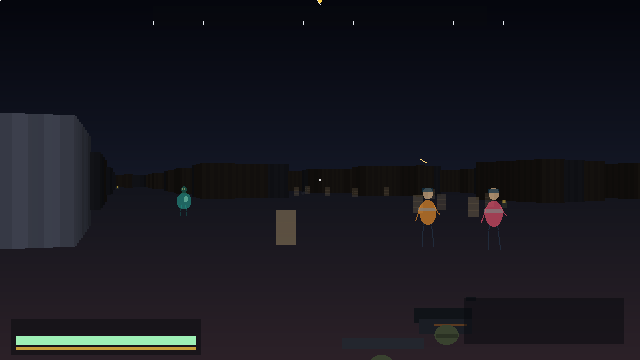
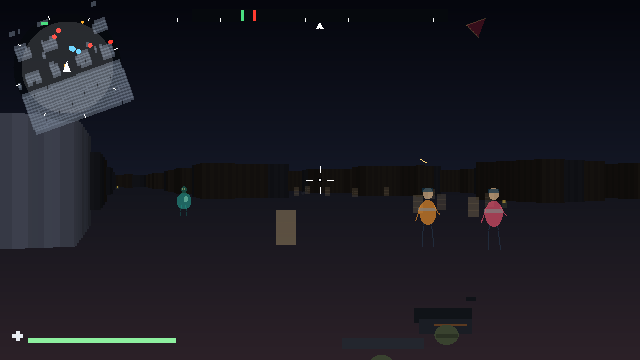
feat(hud): rebuild the FP HUD in the CODM / Warzone grammar
- CIRCULAR MINIMAP top-left (CODM signature): rotating forward-up map with wall
  blocks, red enemy dots (boss bigger), blue teammate dots, amber loot, green
  extract diamond clamped to the rim, white own-arrow + view cone, compass ring
  with rotating N/E/S/W letters; DOM square minimap + squad strip hidden in FP
- thin Warzone compass strip top-centre: faded-edge gradient tape, cardinals,
  red threat pips + green extract pip, centre needle
- crosshair + hitmarkers now drawn with a hard black outline (CoD readability)
- health: med-cross icon + slim outlined bar + armour sliver + hp number,
  bottom-left; low-hp red pulse kept
- ammo bottom-right: huge condensed mag number, dim /reserve, letter-spaced
  weapon name, thin amber RELOAD progress bar (from weapon reload time),
  grenade ring + count; KILLS top-right
- boss bar segmented into 24 cells under the compass
- condensed military font stack (Arial Narrow / Roboto Condensed) with hard
  drop shadows on every label; DOM ammo/gear cluster stays hidden in FP

diff --git a/client/render.js b/client/render.js
@@ -7,6 +7,7 @@
 (function (root) {
   'use strict';
   const D = root.ABAW_DATA, LV = root.ABAW_LEVEL, AU = root.ABAW_AUDIO;
+  const HUDFONT = '"Arial Narrow", "Roboto Condensed", "Barlow Condensed", "Helvetica Neue", system-ui, sans-serif';
   const T = D.TILE;
   const clamp = (v, a, b) => v < a ? a : v > b ? b : v;
   const lerp = (a, b, t) => a + (b - a) * t;
@@ -1142,87 +1143,159 @@
 
     /* ---------------- CoD-style canvas HUD ---------------- */
     static degFromYaw(yaw) { const d = (yaw * 180 / Math.PI + 90) % 360; return d < 0 ? d + 360 : d; }
+    /* ---------------- CODM / Warzone-style canvas HUD ---------------- */
+    drawMinimapFP(ctx, ents, u) {
+      const own = this.ownPos, L = this.level;
+      if (!own || !L) return;
+      const TS = L.tile || 32;
+      const R = 54 * u, cx = R + 13 * u, cy = R + 13 * u;
+      const scale = (R * 0.94) / (17 * TS);
+      const th = -this.yaw - Math.PI / 2;                 // forward = up
+      const c = Math.cos(th), s = Math.sin(th);
+      ctx.save();
+      ctx.beginPath(); ctx.arc(cx, cy, R, 0, 6.2832);
+      ctx.fillStyle = 'rgba(6,9,13,.74)'; ctx.fill();
+      ctx.clip();
+      ctx.translate(cx, cy); ctx.rotate(th);
+      const h = TS * scale / 2;
+      const ox = own.x, oy = own.y, reach = 17 * TS;
+      ctx.fillStyle = 'rgba(120,132,150,.5)';
+      const t0x = Math.floor((ox - reach) / TS), t1x = Math.floor((ox + reach) / TS);
+      const t0y = Math.floor((oy - reach) / TS), t1y = Math.floor((oy + reach) / TS);
+      for (let ty = t0y; ty <= t1y; ty++) for (let tx = t0x; tx <= t1x; tx++) {
+        if (!LV.isSolid(L, tx * TS + TS / 2, ty * TS + TS / 2)) continue;
+        ctx.fillRect((tx * TS + TS / 2 - ox) * scale - h, (ty * TS + TS / 2 - oy) * scale - h, h * 2, h * 2);
+      }
+      const dot = (wx, wy, r, colr) => { ctx.fillStyle = colr; ctx.beginPath(); ctx.arc((wx - ox) * scale, (wy - oy) * scale, r, 0, 6.2832); ctx.fill(); };
+      for (const it of (ents.it || [])) if (Math.hypot(it.x - ox, it.y - oy) < reach) dot(it.x, it.y, 1.6 * u, '#ffb02e');
+      if (L.extract) {
+        const ex = (L.extract.x - ox) * scale, ey = (L.extract.y - oy) * scale;
+        const d = Math.hypot(ex, ey), k = d > R * 0.9 ? (R * 0.9) / d : 1;
+        ctx.fillStyle = '#4ade80';
+        ctx.save(); ctx.translate(ex * k, ey * k); ctx.rotate(Math.PI / 4); ctx.fillRect(-2.4 * u, -2.4 * u, 4.8 * u, 4.8 * u); ctx.restore();
+      }
+      for (const sv of (ents.surv || [])) if (sv.id !== this.youId && !sv.dd) dot(sv.x, sv.y, 2.6 * u, '#5ad1ff');
+      for (const e of (ents.en || [])) if (Math.hypot(e.x - ox, e.y - oy) < reach) dot(e.x, e.y, e.boss ? 3.6 * u : 2.4 * u, e.boss ? '#ff2d55' : '#ff3b30');
+      ctx.restore();
+      // ring + rotating compass letters
+      ctx.strokeStyle = 'rgba(255,255,255,.5)'; ctx.lineWidth = 1.5 * u;
+      ctx.beginPath(); ctx.arc(cx, cy, R, 0, 6.2832); ctx.stroke();
+      ctx.strokeStyle = 'rgba(255,255,255,.28)'; ctx.lineWidth = 1 * u;
+      for (let d = 0; d < 360; d += 45) {
+        const wa = (d - 90) * Math.PI / 180;              // world angle of compass deg d (N=-y)
+        const ra = wa + th;
+        ctx.beginPath();
+        ctx.moveTo(cx + Math.cos(ra) * (R - 3 * u), cy + Math.sin(ra) * (R - 3 * u));
+        ctx.lineTo(cx + Math.cos(ra) * R, cy + Math.sin(ra) * R);
+        ctx.stroke();
+      }
+      const CARD = { 0: 'N', 90: 'E', 180: 'S', 270: 'W' };
+      ctx.font = '700 ' + (8 * u) + 'px ' + HUDFONT;
+      ctx.textAlign = 'center'; ctx.textBaseline = 'middle';
+      for (const d of [0, 90, 180, 270]) {
+        const ra = (d - 90) * Math.PI / 180 + th;
+        ctx.fillStyle = d === 0 ? '#ffd24a' : 'rgba(255,255,255,.8)';
+        ctx.fillText(CARD[d], cx + Math.cos(ra) * (R + 6.5 * u), cy + Math.sin(ra) * (R + 6.5 * u));
+      }
+      ctx.textBaseline = 'alphabetic';
+      // own arrow + view cone
+      ctx.fillStyle = 'rgba(255,255,255,.14)';
+      ctx.beginPath(); ctx.moveTo(cx, cy); ctx.arc(cx, cy, R * 0.85, -Math.PI / 2 - 0.52, -Math.PI / 2 + 0.52); ctx.closePath(); ctx.fill();
+      ctx.fillStyle = '#ffffff';
+      ctx.beginPath(); ctx.moveTo(cx, cy - 5.5 * u); ctx.lineTo(cx - 3.6 * u, cy + 4.5 * u); ctx.lineTo(cx + 3.6 * u, cy + 4.5 * u); ctx.closePath(); ctx.fill();
+    }
+
     drawHud(ctx, ents, snap, dt) {
       const W = this.w, H = this.h, u = H / 360;
       const me = this.youId ? ents.surv.find(e => e.id === this.youId) : null;
       if (this.hitT > 0) this.hitT -= dt;
-      // crosshair: spreads with movement + recoil
-      const tgt = 5 + (this.fpMoving ? 6 : 0) + (this.fpMuzzle > 0 ? 7 : 0) + ((me && me.sp) ? 3 : 0);
-      this.spread += (tgt - this.spread) * Math.min(1, dt * 14);
-      const g = this.spread * u, L = 7 * u;
-      ctx.strokeStyle = 'rgba(245,245,245,.92)'; ctx.lineWidth = Math.max(1.4, 1.6 * u);
-      ctx.beginPath();
-      ctx.moveTo(W / 2 - g - L, H / 2); ctx.lineTo(W / 2 - g, H / 2);
-      ctx.moveTo(W / 2 + g, H / 2); ctx.lineTo(W / 2 + g + L, H / 2);
-      ctx.moveTo(W / 2, H / 2 - g - L); ctx.lineTo(W / 2, H / 2 - g);
-      ctx.moveTo(W / 2, H / 2 + g); ctx.lineTo(W / 2, H / 2 + g + L);
-      ctx.stroke();
-      ctx.fillStyle = 'rgba(245,245,245,.9)'; ctx.fillRect(W / 2 - u, H / 2 - u, 2 * u, 2 * u);
-      // hitmarker
-      if (this.hitT > 0) {
-        const a = clamp(this.hitT / 0.14, 0, 1), r1 = 6 * u, r2 = 13 * u;
-        ctx.strokeStyle = this.hitCrit ? 'rgba(255,80,60,' + a.toFixed(2) + ')' : 'rgba(255,255,255,' + a.toFixed(2) + ')';
-        ctx.lineWidth = 2.2 * u;
-        ctx.beginPath();
-        ctx.moveTo(W / 2 + r1, H / 2 + r1); ctx.lineTo(W / 2 + r2, H / 2 + r2);
-        ctx.moveTo(W / 2 + r1, H / 2 - r1); ctx.lineTo(W / 2 + r2, H / 2 - r2);
-        ctx.moveTo(W / 2 - r1, H / 2 + r1); ctx.lineTo(W / 2 - r2, H / 2 + r2);
-        ctx.moveTo(W / 2 - r1, H / 2 - r1); ctx.lineTo(W / 2 - r2, H / 2 - r2);
-        ctx.stroke();
-      }
-      // compass tape
-      const TS = (this.level && this.level.tile) || 32;
+      const txt = (str, x, y, size, colr, align, weight) => {
+        ctx.font = (weight || 700) + ' ' + (size * u) + 'px ' + HUDFONT;
+        ctx.textAlign = align || 'left';
+        ctx.fillStyle = 'rgba(0,0,0,.7)'; ctx.fillText(str, x + 1.2 * u, y + 1.2 * u);
+        ctx.fillStyle = colr; ctx.fillText(str, x, y);
+      };
+      this.drawMinimapFP(ctx, ents, u);
+
+      // ---- thin compass strip (Warzone) ----
       const deg = Renderer.degFromYaw(this.yaw);
-      const cw = Math.min(W * 0.52, 560 * u), ch = 20 * u, cx0 = W / 2, cy0 = 16 * u, pxd = cw / 100;
+      const cw = Math.min(W * 0.40, 430 * u), ch = 13 * u, cx0 = W / 2, cy0 = 9 * u + ch / 2, pxd = cw / 90;
       ctx.save();
       ctx.beginPath(); ctx.rect(cx0 - cw / 2, cy0 - ch / 2, cw, ch); ctx.clip();
-      ctx.fillStyle = 'rgba(8,10,14,.5)'; ctx.fillRect(cx0 - cw / 2, cy0 - ch / 2, cw, ch);
+      const grd = ctx.createLinearGradient(cx0 - cw / 2, 0, cx0 + cw / 2, 0);
+      grd.addColorStop(0, 'rgba(6,9,13,0)'); grd.addColorStop(0.18, 'rgba(6,9,13,.62)');
+      grd.addColorStop(0.82, 'rgba(6,9,13,.62)'); grd.addColorStop(1, 'rgba(6,9,13,0)');
+      ctx.fillStyle = grd; ctx.fillRect(cx0 - cw / 2, cy0 - ch / 2, cw, ch);
       const CARDS = { 0: 'N', 45: 'NE', 90: 'E', 135: 'SE', 180: 'S', 225: 'SW', 270: 'W', 315: 'NW' };
-      for (let d = Math.floor((deg - 55) / 15) * 15; d <= deg + 55; d += 15) {
+      for (let d = Math.floor((deg - 45) / 15) * 15; d <= deg + 45; d += 15) {
         const x = cx0 + (d - deg) * pxd, dd = ((d % 360) + 360) % 360;
-        if (CARDS[dd] !== undefined) {
-          ctx.fillStyle = dd === 0 ? '#ffd24a' : '#e8ecf2';
-          ctx.font = '700 ' + (10 * u) + 'px system-ui'; ctx.textAlign = 'center';
-          ctx.fillText(CARDS[dd], x, cy0 + 3.5 * u);
-        } else {
-          ctx.strokeStyle = 'rgba(232,236,242,.65)'; ctx.lineWidth = 1;
-          ctx.beginPath(); ctx.moveTo(x, cy0 + ch / 2 - 5 * u); ctx.lineTo(x, cy0 + ch / 2 - 1.5 * u); ctx.stroke();
-        }
+        if (CARDS[dd] !== undefined) txt(CARDS[dd], x, cy0 + 3 * u, 8.5, dd === 0 ? '#ffd24a' : 'rgba(255,255,255,.92)', 'center');
+        else { ctx.strokeStyle = 'rgba(255,255,255,.5)'; ctx.lineWidth = 1; ctx.beginPath(); ctx.moveTo(x, cy0 + ch / 2 - 4 * u); ctx.lineTo(x, cy0 + ch / 2 - 1 * u); ctx.stroke(); }
       }
-      const mark = (bx, by, colr, diamond) => {
-        const bdeg = Renderer.degFromYaw(Math.atan2(by, bx));
-        const diff = ((bdeg - deg + 540) % 360) - 180;
-        if (Math.abs(diff) > 50) return;
-        const x = cx0 + diff * pxd;
-        ctx.fillStyle = colr;
-        ctx.beginPath();
-        if (diamond) { ctx.moveTo(x, cy0 - 6 * u); ctx.lineTo(x + 4 * u, cy0 - 1 * u); ctx.lineTo(x, cy0 + 4 * u); ctx.lineTo(x - 4 * u, cy0 - 1 * u); }
-        else { ctx.moveTo(x, cy0 - 6 * u); ctx.lineTo(x + 4 * u, cy0 + 1 * u); ctx.lineTo(x - 4 * u, cy0 + 1 * u); }
-        ctx.closePath(); ctx.fill();
-      };
       if (this.ownPos) {
+        const pip = (bx, by, colr) => {
+          const bdeg = Renderer.degFromYaw(Math.atan2(by, bx));
+          const diff = ((bdeg - deg + 540) % 360) - 180;
+          if (Math.abs(diff) > 45) return;
+          ctx.fillStyle = colr;
+          ctx.fillRect(cx0 + diff * pxd - 1.2 * u, cy0 - ch / 2 + 1 * u, 2.4 * u, ch - 2 * u);
+        };
         for (const e of (ents.en || [])) {
           const dx = e.x - this.ownPos.x, dy = e.y - this.ownPos.y;
-          if (Math.hypot(dx, dy) < 12 * TS) mark(dx, dy, e.boss ? '#ff2d55' : '#ff3b30', false);
+          if (Math.hypot(dx, dy) < 12 * ((this.level && this.level.tile) || 32)) pip(dx, dy, e.boss ? '#ff2d55' : '#ff3b30');
         }
-        if (this.level && this.level.extract) mark(this.level.extract.x - this.ownPos.x, this.level.extract.y - this.ownPos.y, '#4ade80', true);
+        if (this.level && this.level.extract) pip(this.level.extract.x - this.ownPos.x, this.level.extract.y - this.ownPos.y, '#4ade80');
       }
       ctx.restore();
-      ctx.fillStyle = '#ffd24a';
-      ctx.beginPath(); ctx.moveTo(cx0, cy0 - ch / 2 - 2 * u); ctx.lineTo(cx0 - 4 * u, cy0 - ch / 2 - 8 * u); ctx.lineTo(cx0 + 4 * u, cy0 - ch / 2 - 8 * u); ctx.closePath(); ctx.fill();
-      // health / armor / stamina — bottom left
+      ctx.fillStyle = '#ffffff';
+      ctx.beginPath(); ctx.moveTo(cx0, cy0 + ch / 2 + 1 * u); ctx.lineTo(cx0 - 3.4 * u, cy0 + ch / 2 + 6 * u); ctx.lineTo(cx0 + 3.4 * u, cy0 + ch / 2 + 6 * u); ctx.closePath(); ctx.fill();
+
+      // ---- crosshair (outlined, dynamic) ----
+      const tgt = 5 + (this.fpMoving ? 6 : 0) + (this.fpMuzzle > 0 ? 7 : 0) + ((me && me.sp) ? 3 : 0);
+      this.spread += (tgt - this.spread) * Math.min(1, dt * 14);
+      const g = this.spread * u, L2 = 6.5 * u;
+      const xhair = (colr, lw) => {
+        ctx.strokeStyle = colr; ctx.lineWidth = lw;
+        ctx.beginPath();
+        ctx.moveTo(W / 2 - g - L2, H / 2); ctx.lineTo(W / 2 - g, H / 2);
+        ctx.moveTo(W / 2 + g, H / 2); ctx.lineTo(W / 2 + g + L2, H / 2);
+        ctx.moveTo(W / 2, H / 2 - g - L2); ctx.lineTo(W / 2, H / 2 - g);
+        ctx.moveTo(W / 2, H / 2 + g); ctx.lineTo(W / 2, H / 2 + g + L2);
+        ctx.stroke();
+      };
+      xhair('rgba(0,0,0,.8)', 3.2 * u);
+      xhair('rgba(255,255,255,.95)', 1.5 * u);
+      ctx.fillStyle = 'rgba(0,0,0,.8)'; ctx.fillRect(W / 2 - 1.4 * u, H / 2 - 1.4 * u, 2.8 * u, 2.8 * u);
+      ctx.fillStyle = 'rgba(255,255,255,.95)'; ctx.fillRect(W / 2 - 0.7 * u, H / 2 - 0.7 * u, 1.4 * u, 1.4 * u);
+      // hitmarker
+      if (this.hitT > 0) {
+        const a = clamp(this.hitT / 0.14, 0, 1), r1 = 5 * u, r2 = 12 * u;
+        const hm = (colr, lw) => {
+          ctx.strokeStyle = colr; ctx.lineWidth = lw;
+          ctx.beginPath();
+          ctx.moveTo(W / 2 + r1, H / 2 + r1); ctx.lineTo(W / 2 + r2, H / 2 + r2);
+          ctx.moveTo(W / 2 + r1, H / 2 - r1); ctx.lineTo(W / 2 + r2, H / 2 - r2);
+          ctx.moveTo(W / 2 - r1, H / 2 + r1); ctx.lineTo(W / 2 - r2, H / 2 + r2);
+          ctx.moveTo(W / 2 - r1, H / 2 - r1); ctx.lineTo(W / 2 - r2, H / 2 - r2);
+          ctx.stroke();
+        };
+        hm('rgba(0,0,0,.85)', 3.4 * u);
+        hm(this.hitCrit ? 'rgba(255,80,60,' + a.toFixed(2) + ')' : 'rgba(255,255,255,' + a.toFixed(2) + ')', 1.8 * u);
+      }
+
+      // ---- health: bottom-left, cross icon + slim bar ----
       if (me) {
-        const bw = 180 * u, bh = 9 * u, bx = 16 * u, by = H - 24 * u;
-        ctx.fillStyle = 'rgba(8,10,14,.5)'; ctx.fillRect(bx - 5 * u, by - 17 * u, bw + 10 * u, bh + 27 * u);
-        ctx.textAlign = 'left';
-        ctx.font = '800 ' + (15 * u) + 'px system-ui';
-        ctx.fillStyle = me.hp / me.mhp > 0.35 ? '#e8ecf2' : '#ff5f52';
-        ctx.fillText(String(Math.max(0, me.hp)), bx, by - 5 * u);
-        ctx.fillStyle = 'rgba(255,255,255,.14)'; ctx.fillRect(bx, by, bw, bh);
-        ctx.fillStyle = me.hp / me.mhp > 0.35 ? '#9ef0b6' : '#ff5f52';
-        ctx.fillRect(bx, by, bw * clamp(me.hp / me.mhp, 0, 1), bh);
-        if (me.arm > 0) { ctx.fillStyle = '#8fb4ff'; ctx.fillRect(bx, by - 3.5 * u, bw * clamp(me.ar / (me.arm || 1), 0, 1), 2.5 * u); }
-        ctx.fillStyle = 'rgba(255,204,68,.75)'; ctx.fillRect(bx, by + bh + 2.5 * u, bw * clamp(me.sta / (me.msta || 1), 0, 1), 2 * u);
+        const bx = 16 * u, by = H - 20 * u, bw = 148 * u, bh = 5 * u;
+        const low = me.hp / me.mhp <= 0.35;
+        ctx.fillStyle = low ? '#ff5f52' : '#e8ecf2';                       // med cross
+        ctx.fillRect(bx, by - 9 * u, 3.2 * u, 10 * u); ctx.fillRect(bx - 3.4 * u, by - 5.6 * u, 10 * u, 3.2 * u);
+        ctx.fillStyle = 'rgba(0,0,0,.6)'; ctx.fillRect(bx + 12 * u, by - 2 * u, bw, bh);
+        ctx.fillStyle = low ? '#ff5f52' : '#8ef0a0';
+        ctx.fillRect(bx + 12 * u, by - 2 * u, bw * clamp(me.hp / me.mhp, 0, 1), bh);
+        ctx.strokeStyle = 'rgba(255,255,255,.35)'; ctx.lineWidth = 0.8 * u;
+        ctx.strokeRect(bx + 12 * u, by - 2 * u, bw, bh);
+        if (me.arm > 0) { ctx.fillStyle = '#8fb4ff'; ctx.fillRect(bx + 12 * u, by - 5 * u, bw * clamp(me.ar / (me.arm || 1), 0, 1), 2 * u); }
+        txt(String(Math.max(0, me.hp)), bx + 16 * u + bw, by + 3.5 * u, 10, low ? '#ff5f52' : 'rgba(255,255,255,.85)', 'left', 600);
         if (me.hp / me.mhp < 0.3) {
           const a = 0.15 + 0.11 * Math.sin(this.time * 6);
           const gg = ctx.createRadialGradient(W / 2, H / 2, H * 0.3, W / 2, H / 2, H * 0.78);
@@ -1230,42 +1303,42 @@
           ctx.fillStyle = gg; ctx.fillRect(0, 0, W, H);
         }
       }
-      // ammo / weapon / kills — bottom + top right
+
+      // ---- ammo cluster: bottom-right, big condensed numbers ----
       if (me) {
-        ctx.textAlign = 'right';
-        ctx.fillStyle = 'rgba(8,10,14,.5)'; ctx.fillRect(W - 176 * u, H - 62 * u, 160 * u, 46 * u);
-        ctx.font = '800 ' + (28 * u) + 'px system-ui';
-        ctx.fillStyle = me.mag === 0 ? '#ff5f52' : '#e8ecf2';
-        ctx.fillText(String(me.mag), W - 74 * u, H - 26 * u);
-        ctx.font = '700 ' + (13 * u) + 'px system-ui'; ctx.fillStyle = 'rgba(232,236,242,.72)';
-        ctx.fillText('/ ' + me.res, W - 28 * u, H - 26 * u);
-        ctx.font = '600 ' + (9.5 * u) + 'px system-ui'; ctx.fillStyle = 'rgba(232,236,242,.55)';
-        ctx.fillText(String(((D.WEAPONS || {})[me.wp] || {}).name || me.wp || '').toUpperCase(), W - 28 * u, H - 44 * u);
-        if (me.rl > 0) {
-          ctx.fillStyle = 'rgba(255,210,74,' + (0.6 + 0.4 * Math.sin(this.time * 10)).toFixed(2) + ')';
-          ctx.font = '800 ' + (10.5 * u) + 'px system-ui'; ctx.fillText('RELOADING', W - 28 * u, H - 12 * u);
+        const ax = W - 18 * u;
+        txt(String(me.mag), ax - 44 * u, H - 22 * u, 34, me.mag === 0 ? '#ff5f52' : '#f2f5f9', 'right', 800);
+        txt('/ ' + me.res, ax, H - 24 * u, 13, 'rgba(242,245,249,.66)', 'right', 600);
+        const wn = String(((D.WEAPONS || {})[me.wp] || {}).name || me.wp || '').toUpperCase();
+        txt(wn, ax, H - 44 * u, 9, 'rgba(242,245,249,.6)', 'right', 600);
+        const wdef = (D.WEAPONS || {})[me.wp] || {};
+        if (me.rl > 0 && wdef.reload) {
+          const pw = 74 * u, prog = clamp(1 - me.rl / wdef.reload, 0, 1);
+          ctx.fillStyle = 'rgba(0,0,0,.6)'; ctx.fillRect(ax - pw, H - 14 * u, pw, 2.6 * u);
+          ctx.fillStyle = '#ffd24a'; ctx.fillRect(ax - pw, H - 14 * u, pw * prog, 2.6 * u);
         } else if (me.tn > 0) {
-          ctx.fillStyle = '#ff9a3c'; ctx.font = '700 ' + (10.5 * u) + 'px system-ui';
-          ctx.fillText(me.tn + 'x ' + String(me.th || 'THROW').toUpperCase(), W - 100 * u, H - 12 * u);
+          ctx.strokeStyle = '#ff9a3c'; ctx.lineWidth = 1.2 * u;
+          ctx.beginPath(); ctx.arc(ax - 84 * u, H - 28 * u, 5 * u, 0, 6.2832); ctx.stroke();
+          txt('x' + me.tn, ax - 74 * u, H - 24 * u, 10, '#ff9a3c', 'left', 700);
         }
-        ctx.fillStyle = 'rgba(232,236,242,.85)'; ctx.font = '800 ' + (12 * u) + 'px system-ui';
-        ctx.fillText('KILLS ' + (me.k || 0), W - 16 * u, 20 * u);
+        txt('KILLS  ' + (me.k || 0), W - 16 * u, 20 * u, 11, 'rgba(242,245,249,.9)', 'right', 700);
       }
-      // boss bar
+
+      // ---- boss bar: segmented, top-centre under compass ----
       const boss = (ents.en || []).find(e => e.b);
       if (boss) {
-        const bw2 = Math.min(W * 0.42, 420 * u), bx2 = W / 2 - bw2 / 2, by2 = 36 * u;
-        ctx.textAlign = 'center';
-        ctx.fillStyle = '#ff2d55'; ctx.font = '800 ' + (11 * u) + 'px system-ui';
-        ctx.fillText(String(((D.ENEMIES || {})[boss.t] || {}).name || 'MANANANGGAL').toUpperCase(), W / 2, by2 - 4 * u);
-        ctx.fillStyle = 'rgba(255,255,255,.14)'; ctx.fillRect(bx2, by2, bw2, 5.5 * u);
-        ctx.fillStyle = '#ff2d55'; ctx.fillRect(bx2, by2, bw2 * clamp(boss.hp / (boss.mhp || 1), 0, 1), 5.5 * u);
+        const bw2 = Math.min(W * 0.38, 380 * u), bx2 = W / 2 - bw2 / 2, by2 = 32 * u, seg = 24;
+        txt(String(((D.ENEMIES || {})[boss.t] || {}).name || 'MANANANGGAL').toUpperCase(), W / 2, by2 - 3 * u, 10, '#ff2d55', 'center', 800);
+        const frac = clamp(boss.hp / (boss.mhp || 1), 0, 1);
+        for (let i = 0; i < seg; i++) {
+          const on = (i + 0.5) / seg <= frac;
+          ctx.fillStyle = on ? '#ff2d55' : 'rgba(255,255,255,.13)';
+          ctx.fillRect(bx2 + (bw2 / seg) * i + 0.6 * u, by2, bw2 / seg - 1.2 * u, 4.5 * u);
+        }
       }
       ctx.textAlign = 'left';
     }
 
-    /* Edge-of-screen placement for an off-view bearing (view space: +x forward,
-       +y right). Pure so tests can pin the geometry. */
     static threatMarker(bear, W, H, m) {
       const vx = Math.cos(bear), vy = Math.sin(bear);   // view space: +x fwd, +y right
       const behind = vx < 0;
@@ -1275,8 +1348,6 @@
       return { px: W / 2 + vy * K, py: H / 2 - vx * K, side: vy >= 0 ? 1 : -1, behind };
     }
 
-    /* First-person awareness: off-view threat chevrons + proximity pulse +
-       a directional damage ring. FP has no peripheral vision; this is yours. */
     drawAwareness(ctx, ents, dt) {
       const W = this.w, H = this.h, own = this.ownPos;
       if (!own || !this.level) return;

diff --git a/client/index.html b/client/index.html
@@ -384,14 +384,14 @@ body.touch #chatinput{font-size:16px}   /* >=16px stops iOS auto-zoom on focus *
       <div class="chip"><div class="k">AI Director · Tension</div><div class="v" id="tensionVal" style="font-size:11px">CALM</div><div id="tension"><i></i></div></div>
       <div class="chip" style="display:flex;gap:12px"><div><div class="k">Ping</div><div class="v" id="pingVal" style="font-size:12px">—</div></div><div><div class="k">Time</div><div class="v" id="timeVal" style="font-size:12px">0:00</div></div></div>
     </div>
-    <div class="hud-tr"><canvas id="minimap" width="184" height="184"></canvas>
+    <div class="hud-tr dupfp"><canvas id="minimap" width="184" height="184"></canvas>
       <div class="chip" id="netChip" style="font-size:10px"><span class="k">Session</span> <span class="v" id="sessVal" style="font-size:11px">SOLO</span></div>
     </div>
     <div class="hud-tc">
       <div id="objlabel">—</div><div id="objbar"><i></i></div><div id="objsub"></div>
       <div id="bossbar"><div class="bn">Manananggal</div><div class="bt"><i></i><u></u></div></div>
     </div>
-    <div class="hud-bl" id="squad"></div>
+    <div class="hud-bl dupfp" id="squad"></div>
     <div class="hud-br dupfp">
       <div id="gear">
         <div class="gitem empty" id="gslot2"><b>2</b><span id="gslot2n">EMPTY</span><i id="gslot2a">[Q]</i></div>

diff --git a/tools/fp-preview.js b/tools/fp-preview.js
@@ -151,6 +151,7 @@ const self = Object.create(Rend.prototype);
 Object.assign(self, {
   w: W, h: H, dpr: 1, tier: 'high', youId: 'p0', yaw: yawDeg * Math.PI / 180,
   level: lvl, zbuf: null, fpBob: 0, fpMuzzle: 0, fpMoving: true,
+  ownPos: { x: me.x, y: me.y }, hitT: 0, hitCrit: false, spread: 6, time: 0, hurtDir: 0, hurtDirT: 0,
   cam: { x: me.x, y: me.y }, breakByN: sim.breaks, opts: {}
 });
 const ents = { surv: snap.surv, en: snap.en, it: snap.it, tr: snap.tr, pr: snap.pr, hz: snap.hz, cp: snap.cp };

diff --git a/client/main.js b/client/main.js
@@ -988,7 +988,7 @@
     // director tension -> music
     AU.setTension(s.dir ? s.dir.i * 0.6 + (s.dir.s || 0) * 0.4 : 0);
     // minimap
-    renderer.drawMinimap($('minimap'), s);
+    if (!renderer.fp) renderer.drawMinimap($('minimap'), s);   // FP draws its own circular minimap
     if (renderer.opts.fps && $('fps')) $('fps').textContent = renderer.stats.fps + ' fps · ' + renderer.stats.ents + ' ents';
   }
 
